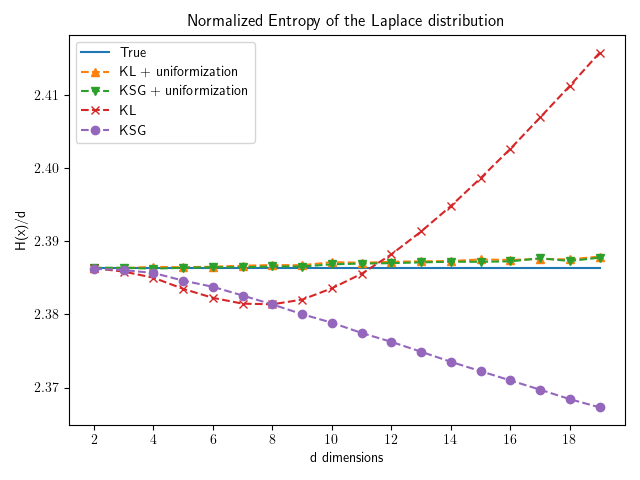
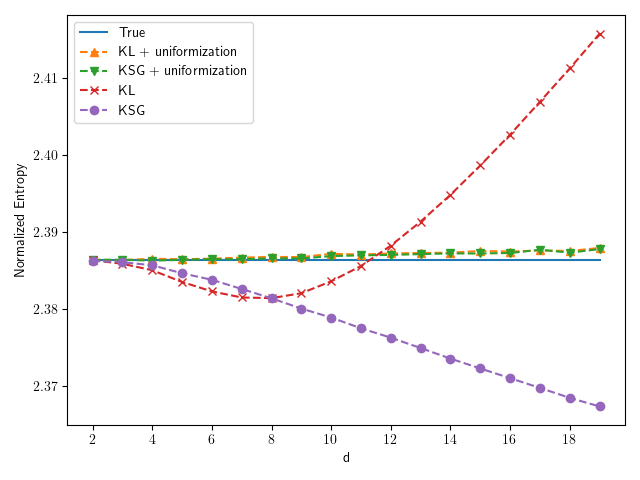
fixed bug with model not existing

diff --git a/Capacity/Estimation/Uniformization/NFEE-main/train_CPDSSS.py b/Capacity/Estimation/Uniformization/NFEE-main/train_CPDSSS.py
@@ -58,7 +58,8 @@ for i in range(n_trials):
         _ = ent.update_best_model(model, X_samp, name=name, path=X_path)
         model = ent.load_model(name=name, path=X_path)
         new_loss = model.eval_trnloss(X_samp)
-        orig_loss = ent.load_model(model, name, X_orig_path).eval_trnloss(X_samp)
+        orig_model = ent.load_model(model, name, X_orig_path)
+        orig_loss = orig_model.eval_trnloss(X_samp) if orig_model is not None else np.inf
         print(f"original loss: {orig_loss:.3f}")
         print(f"new loss: {new_loss:.3f}")
 
@@ -68,6 +69,7 @@ for i in range(n_trials):
         _ = ent.update_best_model(model, XH_samp, name=name, path=XH_path)
         model = ent.load_model(name=name, path=XH_path)
         new_loss = model.eval_trnloss(XH_samp)
-        orig_loss = ent.load_model(model, name, XH_orig_path).eval_trnloss(XH_samp)
+        orig_model = ent.load_model(model, name, XH_orig_path)
+        orig_loss = orig_model.eval_trnloss(XH_samp) if orig_model is not None else np.inf
         print(f"original loss: {orig_loss:.3f}")
         print(f"new loss: {new_loss:.3f}")

diff --git a/Capacity/Estimation/Uniformization/NFEE-main/Laplace_view_data.py b/Capacity/Estimation/Uniformization/NFEE-main/Laplace_view_data.py
@@ -107,10 +107,10 @@ plt.plot(N_range, H_unif_KL_mean, "--^")
 plt.plot(N_range, H_unif_KSG_mean, "--v")
 plt.plot(N_range, H_KL_mean, "--x")
 plt.plot(N_range, H_KSG_mean, "--o")
-plt.title("Normalized Entropy of the Laplace distribution")
+# plt.title("Normalized Entropy of the Laplace distribution")
 plt.legend(["True", "KL + uniformization", "KSG + uniformization", "KL", "KSG"])
-plt.xlabel("d dimensions")
-plt.ylabel("H(x)/d")
+plt.xlabel("d")
+plt.ylabel("Normalized Entropy")
 plt.xticks(N_range[::2])
 plt.tight_layout()
 
